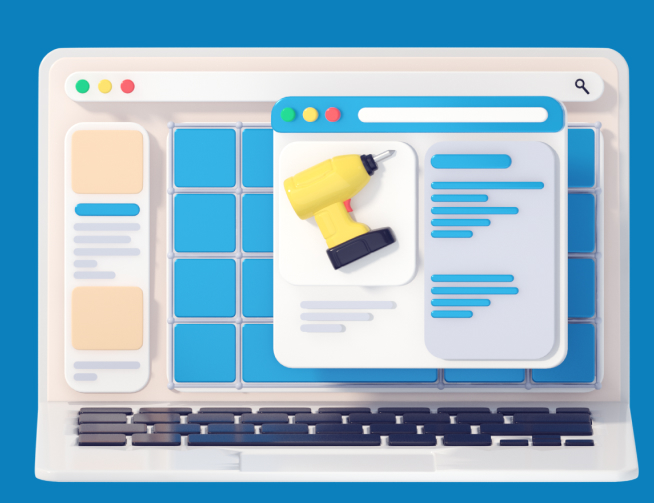
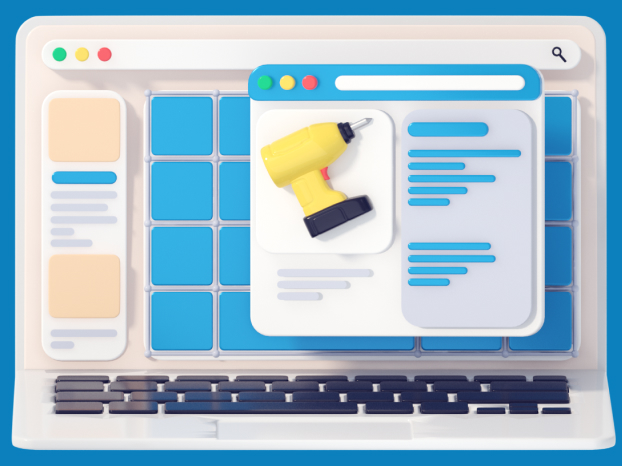
benefits desktop

diff --git a/development/index.html b/development/index.html
@@ -384,10 +384,10 @@
                 </div>
             </div>
             <div class="benefits__body">
-                <div class="benefits__item">
+                <div class="benefits__item benefits__item--for-distributor-manufacturer">
                     <div class="benefits__screen benefits__screen--aspect">
                         <div class="benefits__summary">
-                            <ul class="list list--white">
+                            <ul class="benefits__features list list--white">
                                 <li class="list__item">Effortlessly distribute personalised data and promotions throughout the dealer chain.</li>
                                 <li class="list__item">Boost advertisements effectiveness with instant updates.</li>
                                 <li class="list__item">Simplify the promotion of high-value goods by sharing sales pitches and unique selling propositions.</li>
@@ -399,16 +399,16 @@
                         <img class="benefits__screenshot"
                              srcset="content/benefits-screenshot-a@2x.jpg 2x"
                              src="content/benefits-screenshot-a.jpg"
-                             width="654"
-                             height="503"
+                             width="622"
+                             height="466"
                              alt=""
                         >
                     </div>
                 </div>
-                <div class="benefits__item">
+                <div class="benefits__item benefits__item--for-dealer-and-seller">
                     <div class="benefits__screen benefits__screen--alternate">
                         <div class="benefits__summary">
-                            <ul class="list">
+                            <ul class="benefits__features list">
                                 <li class="list__item">Have a central source of always actual product data. No need to duplicate supplier’s product data and worry about it being updated.</li>
                                 <li class="list__item">Use built-in sales and quotation tools based on ready-to sell suppliers catalogs</li>
                                 <li class="list__item">Start working with new suppliers faster and more efficiently with no data parsing</li>
@@ -420,8 +420,8 @@
                         <img class="benefits__screenshot"
                              srcset="content/benefits-screenshot-b@2x.png 2x"
                              src="content/benefits-screenshot-b.png"
-                             width="625"
-                             height="503"
+                             width="622"
+                             height="466"
                              alt=""
                         >
                     </div>

diff --git a/development/styles/_benefits.css b/development/styles/_benefits.css
@@ -30,6 +30,7 @@
                 padding-top: 77px;
                 padding-bottom: 72px;
                 padding-left: 66px;
+                overflow: hidden;
             }
 
             .benefits__screen--aspect {
@@ -48,7 +49,28 @@
                     flex-shrink: 0;
                     font-weight: 500;
                 }
+                    .benefits__features {
+                        margin-top: 0;
+                        margin-bottom: 0;
+                    }
 
                 .benefits__screenshot {
                     vertical-align: top;
                 }
+
+
+
+
+    .benefits__item--for-distributor-manufacturer {
+
+    }
+
+        @media (min-width: 1400px) {
+            .benefits__item--for-distributor-manufacturer .benefits__screenshot {
+                margin-left: 86px;
+            }
+        }
+
+    .benefits__item--for-dealer-and-seller {
+
+    }
